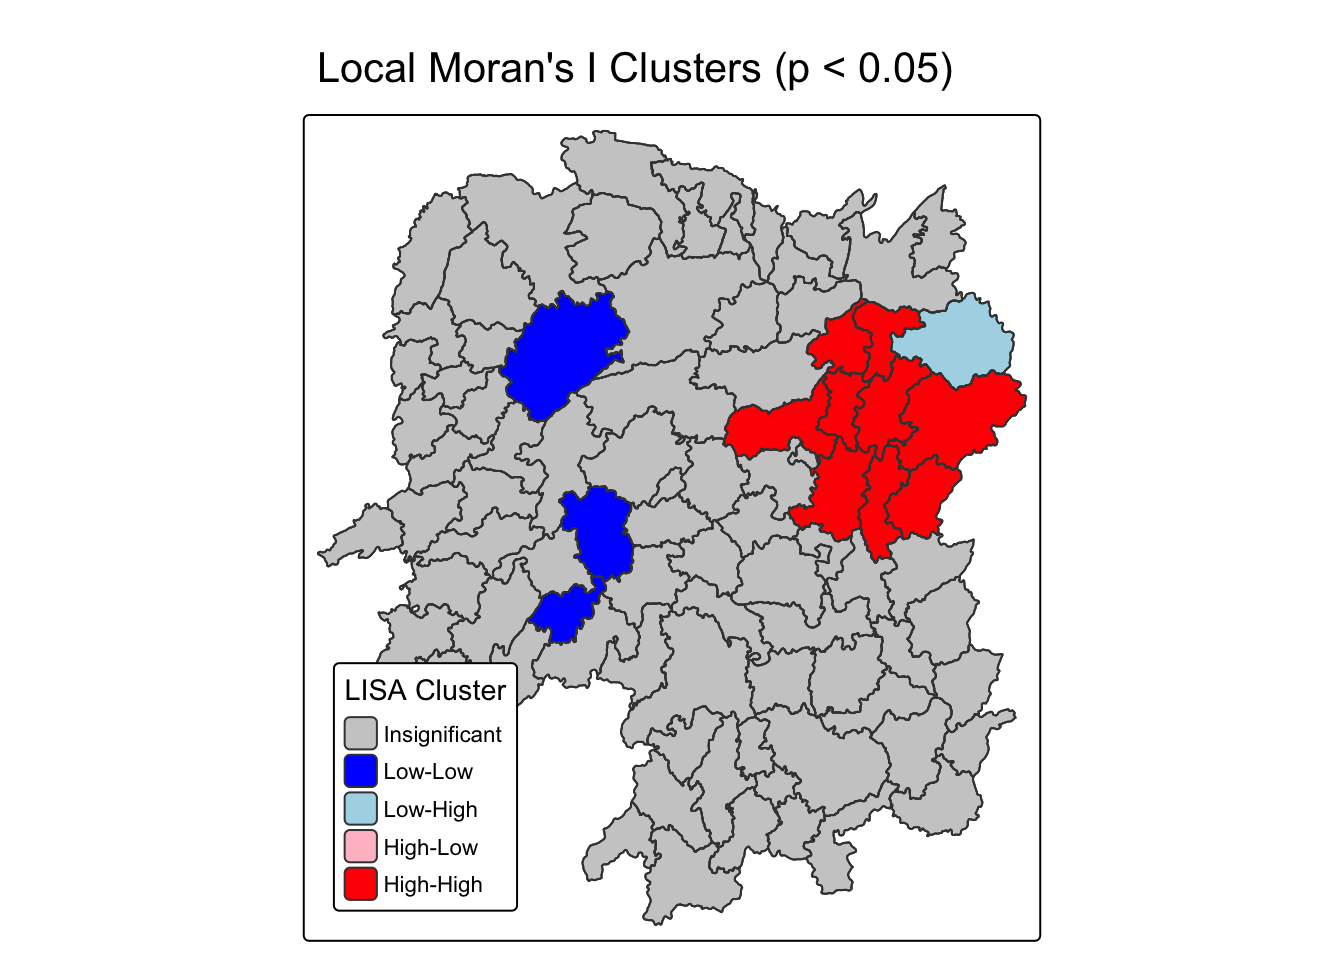
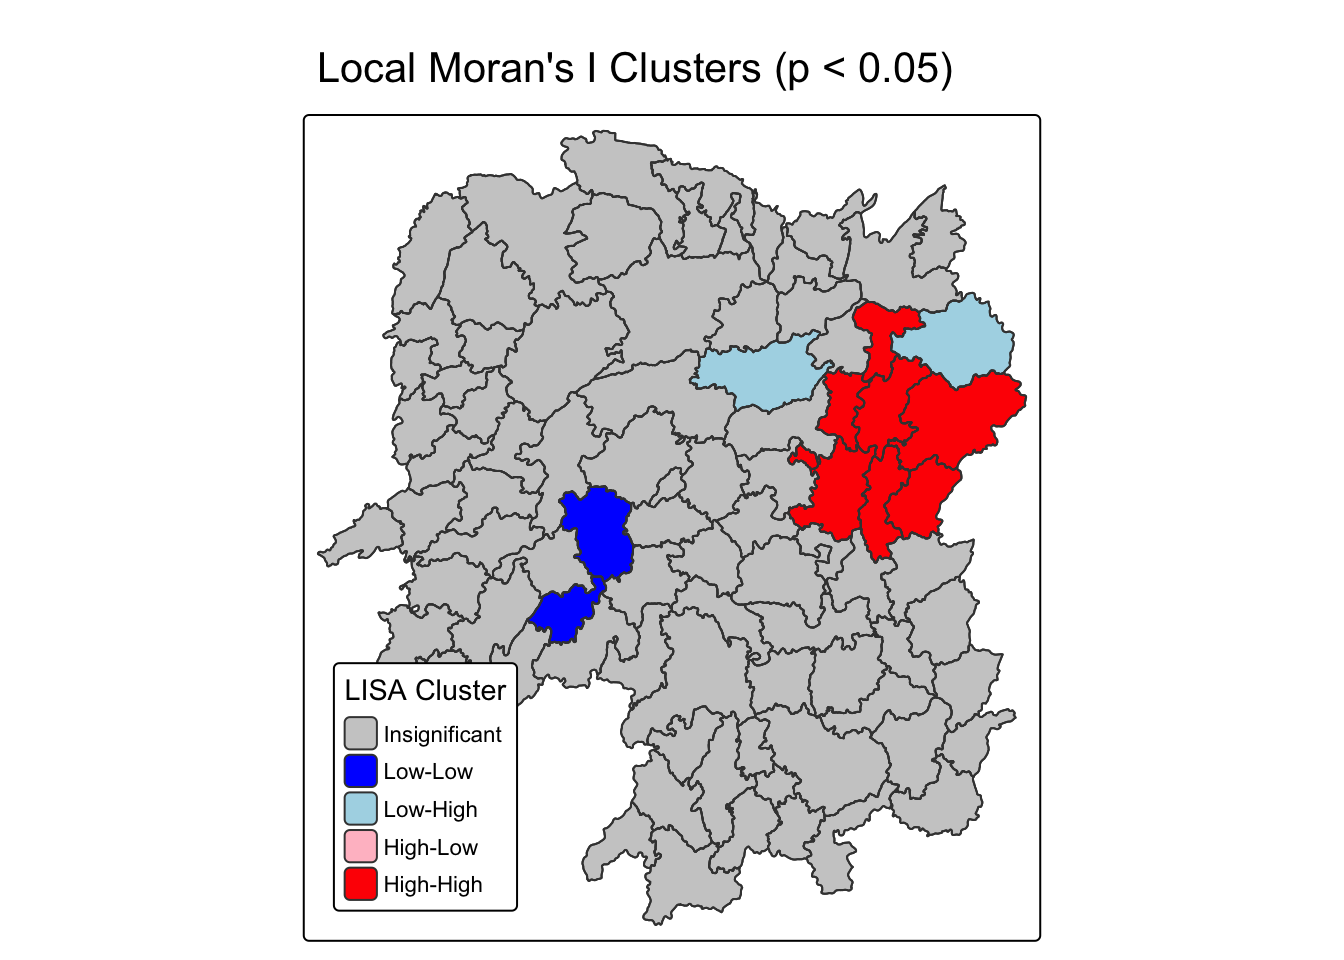
Commit for Hands-on Exercise 05

Changed region(s): [[0.5, 0.3125, 0.6562, 0.5], [0.375, 0.3125, 0.4688, 0.4375]]

diff --git a/_site/Hands-on_Ex05/hand-on_ex05b.html b/_site/Hands-on_Ex05/hand-on_ex05b.html
@@ -9,7 +9,7 @@
 <meta name="author" content="TAN Chin Khoon">
 <meta name="dcterms.date" content="2025-09-26">
 
-<title>Hands-on Ex05b – ISSS626</title>
+<title>Hands-on Ex5b – ISSS626</title>
 <style>
 code{white-space: pre-wrap;}
 span.smallcaps{font-variant: small-caps;}
@@ -312,7 +312,7 @@ window.Quarto = {
 
 <header id="title-block-header" class="quarto-title-block default">
 <div class="quarto-title">
-<h1 class="title">Hands-on Ex05b</h1>
+<h1 class="title">Hands-on Ex5b</h1>
 </div>
 
 
@@ -583,14 +583,14 @@ Link number distribution:
 <pre><code>Rows: 88
 Columns: 21
 $ ii           &lt;dbl&gt; -1.468468e-03, 2.587817e-02, -1.198765e-02, 1.022468e-03,…
-$ eii          &lt;dbl&gt; -2.631784e-03, 1.744701e-02, 1.343181e-02, -5.668077e-05,…
-$ var_ii       &lt;dbl&gt; 5.833780e-04, 8.788183e-03, 1.047367e-01, 6.112508e-06, 1…
-$ z_ii         &lt;dbl&gt; 0.04816401, 0.08993686, -0.07854469, 0.43648716, 0.356931…
-$ p_ii         &lt;dbl&gt; 9.615855e-01, 9.283374e-01, 9.373948e-01, 6.624833e-01, 7…
-$ p_ii_sim     &lt;dbl&gt; 0.82, 0.78, 1.00, 0.48, 0.66, 0.74, 0.02, 0.06, 0.02, 0.2…
-$ p_folded_sim &lt;dbl&gt; 0.41, 0.39, 0.50, 0.24, 0.33, 0.37, 0.01, 0.03, 0.01, 0.1…
-$ skewness     &lt;dbl&gt; -0.8939159, -0.9537027, 0.6043385, 1.1370153, 0.5440361, …
-$ kurtosis     &lt;dbl&gt; 0.24823061, 0.25433620, 0.37641112, 0.72691839, -0.494734…
+$ eii          &lt;dbl&gt; 3.584589e-03, 4.265412e-03, -4.590661e-02, 1.909457e-04, …
+$ var_ii       &lt;dbl&gt; 2.683949e-04, 9.785426e-03, 1.078071e-01, 4.385560e-06, 1…
+$ z_ii         &lt;dbl&gt; -0.3084374, 0.2184844, 0.1033044, 0.3970646, 0.1606782, -…
+$ p_ii         &lt;dbl&gt; 7.577495e-01, 8.270517e-01, 9.177214e-01, 6.913198e-01, 8…
+$ p_ii_sim     &lt;dbl&gt; 0.74, 0.96, 0.74, 0.64, 0.72, 0.86, 0.08, 0.16, 0.02, 0.2…
+$ p_folded_sim &lt;dbl&gt; 0.37, 0.48, 0.37, 0.32, 0.36, 0.43, 0.04, 0.08, 0.01, 0.1…
+$ skewness     &lt;dbl&gt; -0.6804804, -0.8212790, 1.0678883, 0.8265050, 0.6809296, …
+$ kurtosis     &lt;dbl&gt; 0.90198393, 0.98823649, 1.29985610, 0.20430382, 0.1311100…
 $ mean         &lt;fct&gt; Low-High, Low-Low, High-Low, High-High, High-High, High-L…
 $ median       &lt;fct&gt; High-High, High-High, High-High, High-High, High-High, Hi…
 $ pysal        &lt;fct&gt; Low-High, Low-Low, High-Low, High-High, High-High, High-L…

diff --git a/_site/Hands-on_Ex05/hand-on_ex05a.html b/_site/Hands-on_Ex05/hand-on_ex05a.html
@@ -9,7 +9,7 @@
 <meta name="author" content="TAN Chin Khoon">
 <meta name="dcterms.date" content="2025-09-26">
 
-<title>Hands-on Ex05a – ISSS626</title>
+<title>Hands-on Ex5a – ISSS626</title>
 <style>
 code{white-space: pre-wrap;}
 span.smallcaps{font-variant: small-caps;}
@@ -303,7 +303,7 @@ window.Quarto = {
 
 <header id="title-block-header" class="quarto-title-block default">
 <div class="quarto-title">
-<h1 class="title">Hands-on Ex05a</h1>
+<h1 class="title">Hands-on Ex5a</h1>
 </div>
 
 
